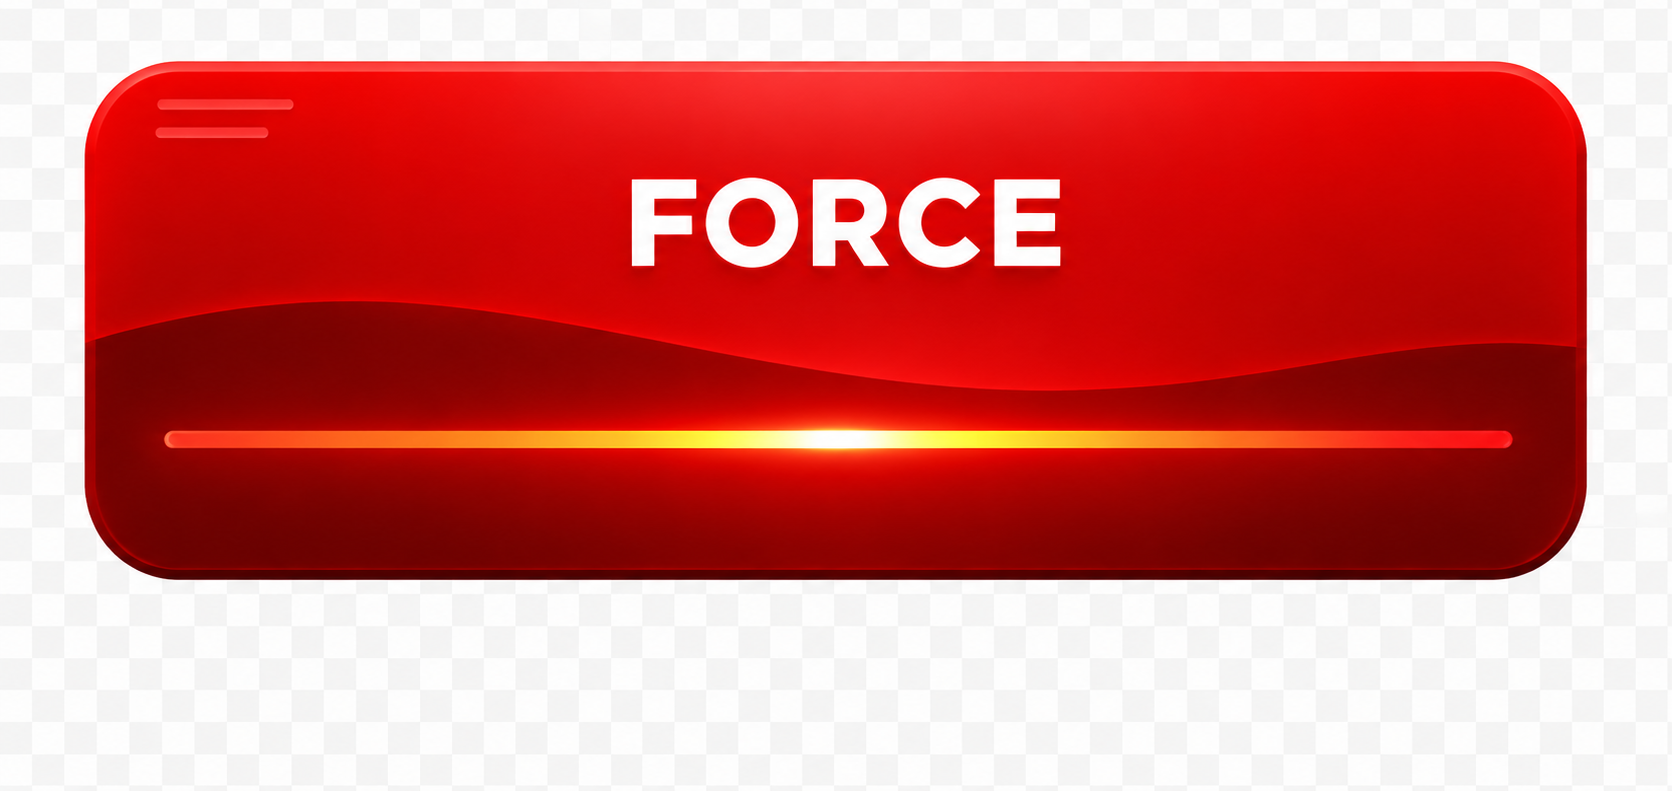
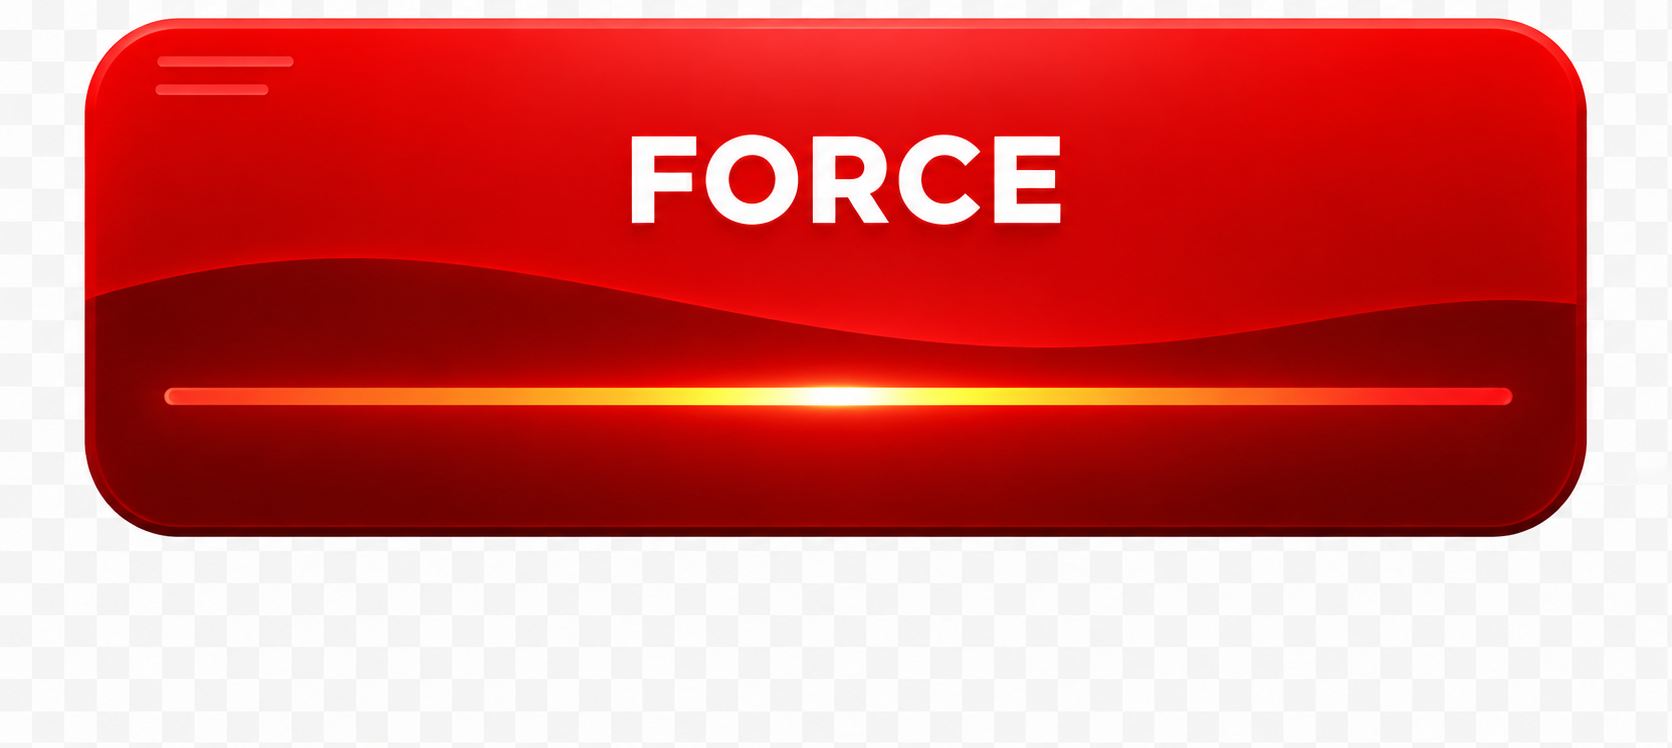
fix: crop theme images more aggressively and zoom to remove white edges
Aggressive Edge Crop:
- Sharp script met lagere threshold (brightness > 230)
- Minimal padding (2px) in plaats van 8px
- Crop rondom alle kanten (niet alleen boven)
- Resultaat: additionele 43-223px bovenmarge verwijderd

Before/After Afmetingen:
- force.png: 1672x791 → 1672x748 (43px extra bovenmarge verwijderd)
- pastel_calm.png: 1672x791 → 1672x748 (43px extra)
- retro_sport.png: 1659x759 → 1659x706 (53px extra)
- sahara_dune.png: 1659x771 → 1659x721 (50px extra)
- zen_ink.png: 1659x764 → 1659x712 (52px extra)
- aurora.png: 1536x807 → 1536x745 (62px extra)
- ruby.png: 1536x814 → 1536x750 (64px extra)
- coral_bloom.png: 1599x792 → 1599x737 (55px extra)
- marble.png: 1536x810 → 1536x751 (59px extra)
- sapphire.png: 1536x822 → 1536x766 (56px extra)
- purple_storm.png: 1536x816 → 1536x754 (62px extra)
- volcanic_ash.png: 1536x1024 → 1536x801 (223px extra, eerste keer gecropt)
- venom.png: 1536x1024 → 1536x807 (217px extra, eerste keer gecropt)
- wave.png: 1535x816 → 1535x758 (58px extra)

ThemeImageBannerCard Zoom:
- ImageBackground 120% breedte/hoogte
- Position: absolute, top: -10%, left: -10%
- Dit zoomt de image in zodat witte randen buiten beeld vallen
- resizeMode: cover (was stretch) voor betere rendering
- Card overflow hidden houdt alles binnen

Resultaat:
- Witte/checker randen rondom theme images verwijderd
- Image zoomed in zodat canvasrand buiten beeld valt
- Geen witte rand zichtbaar meer
- Geen layout shift
- Lint PASS (4 pre-existing warnings)
- TypeScript PASS

diff --git a/daely-rn/components/ThemeImageBannerCard.tsx b/daely-rn/components/ThemeImageBannerCard.tsx
@@ -46,7 +46,7 @@ export function ThemeImageBannerCard({ theme, isActive, onPress }: ThemeImageBan
       <ImageBackground
         source={bannerImage}
         style={styles.imageBackground}
-        resizeMode="stretch"
+        resizeMode="cover"
         imageStyle={styles.imageStyle}
       >
         {/* Selected state - check only, no large glow */}
@@ -78,9 +78,12 @@ const styles = StyleSheet.create({
     transform: [{ scale: 1.01 }],
   },
   imageBackground: {
-    width: '100%',
-    height: '100%',
+    width: '120%',
+    height: '120%',
     backgroundColor: 'transparent',
+    position: 'absolute',
+    top: '-10%',
+    left: '-10%',
   },
   imageStyle: {
     borderRadius: 32,
